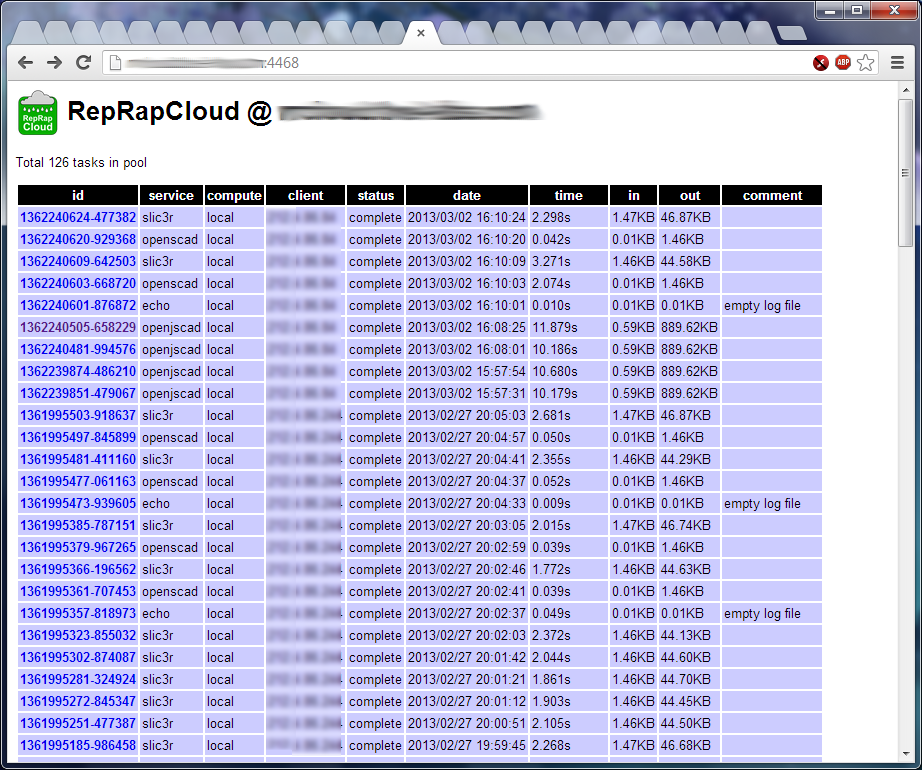
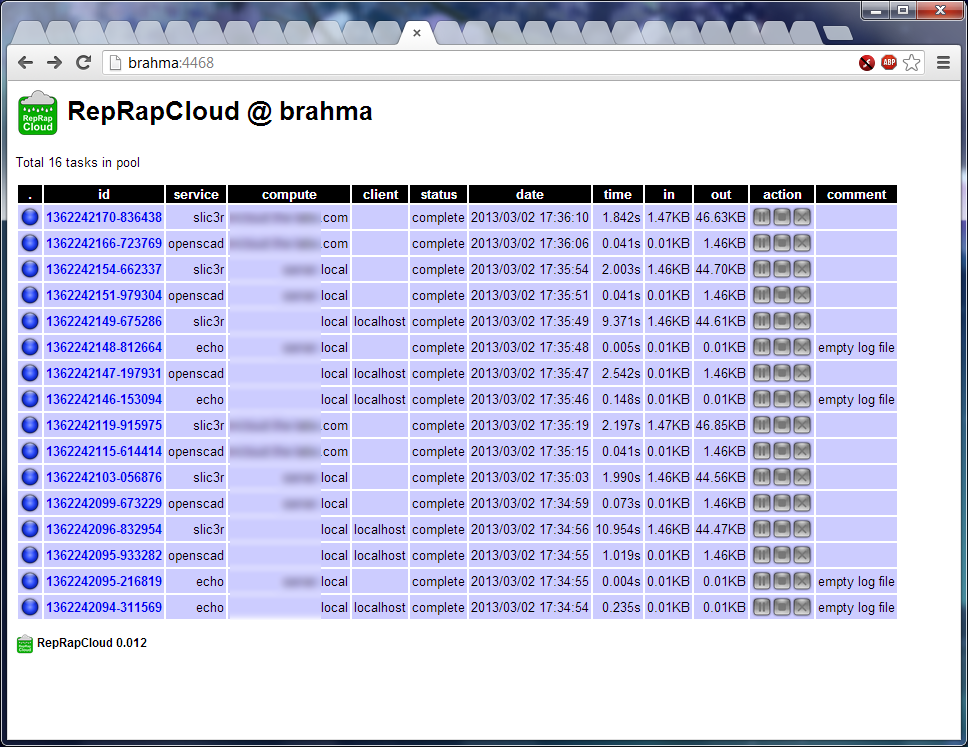
adding openjscad service, proper install

diff --git a/www/style.css b/www/style.css
@@ -1,9 +1,11 @@
 body { background: white; font-family: helvetica, arial; font-size: 0.8em; }
 a { text-decoration: none; font-weight: bold }
-table th { background: black; color: white; font-size: 0.8em }
-table td { font-size: 0.8em }
+.taskList { }
+.taskList th { background: black; color: white; font-size: 0.8em }
+.taskList td { margin: 2px; padding: 2px; font-size: 0.8em; text-align: right }
 .taskcomplete { background: #ccf; }
-.taskbusy { background: #cfc; }
+.taskbusy { background: #fec; }
 .taskfailed { background: #fcc; }
 .footer { font-size: 12px; font-weight: bold }
-
+.taskStatusIcon { width: 20px; height: 20px }
+.taskActionButton { width: 20px; height: 20px }
